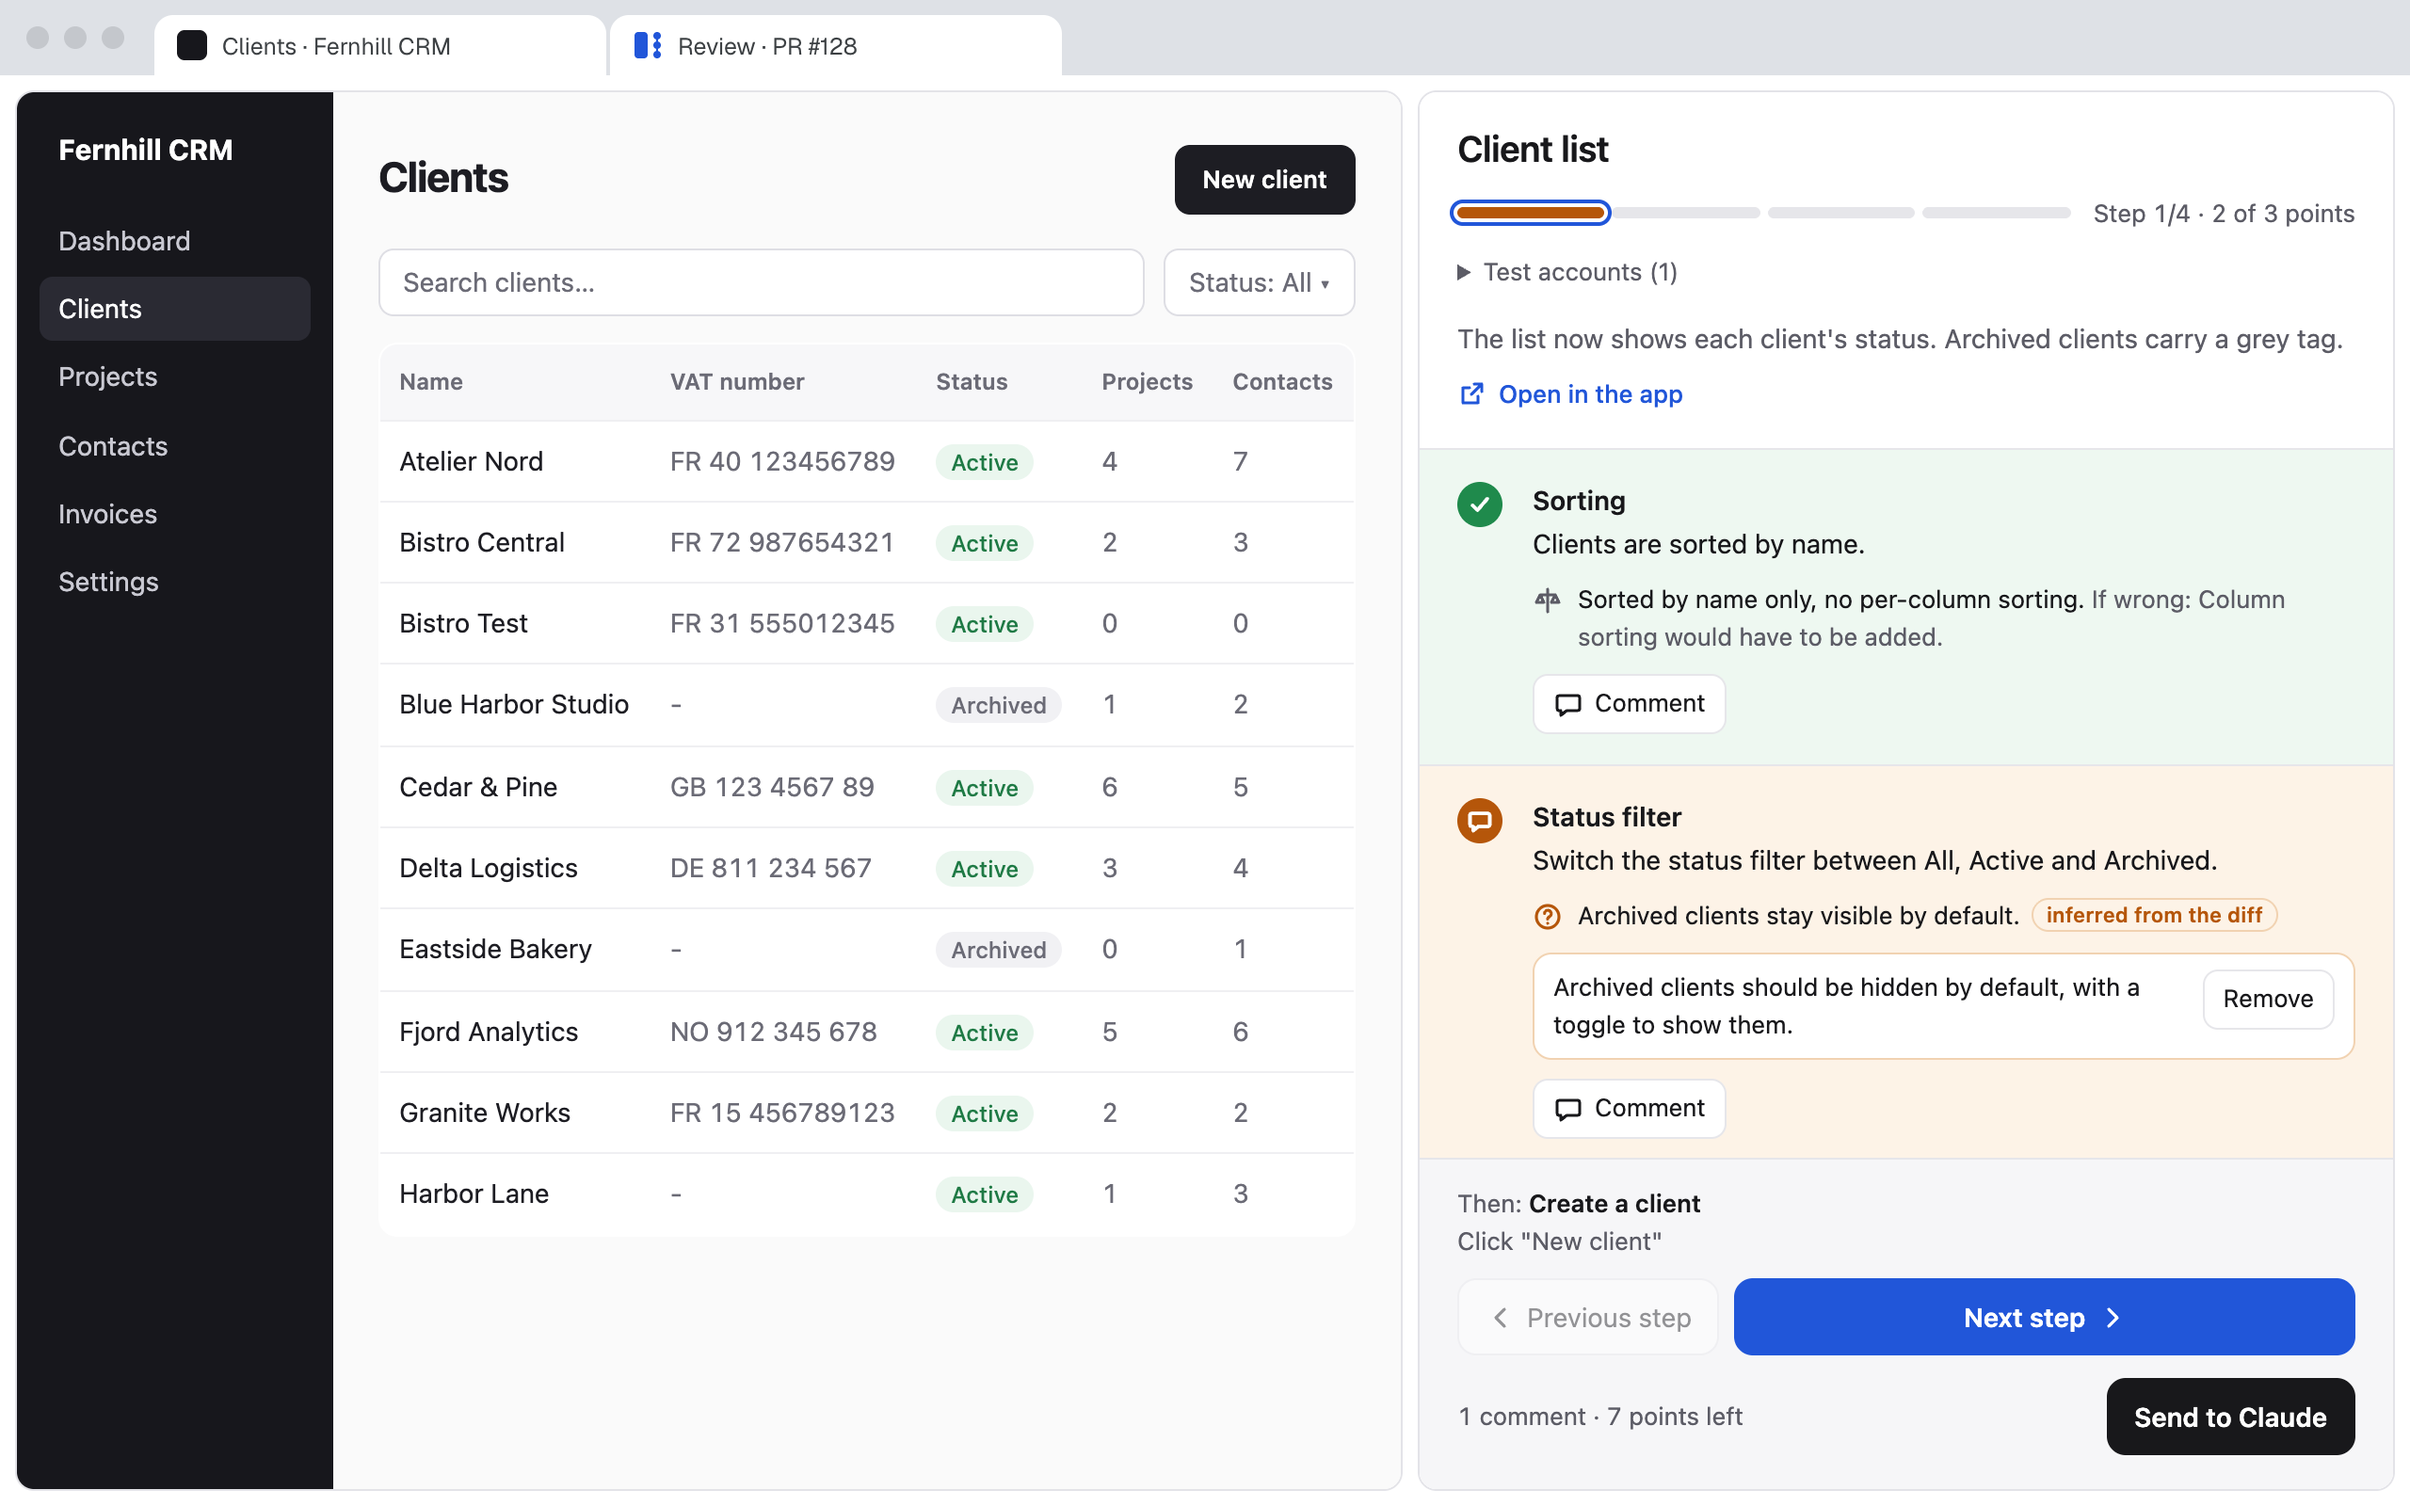
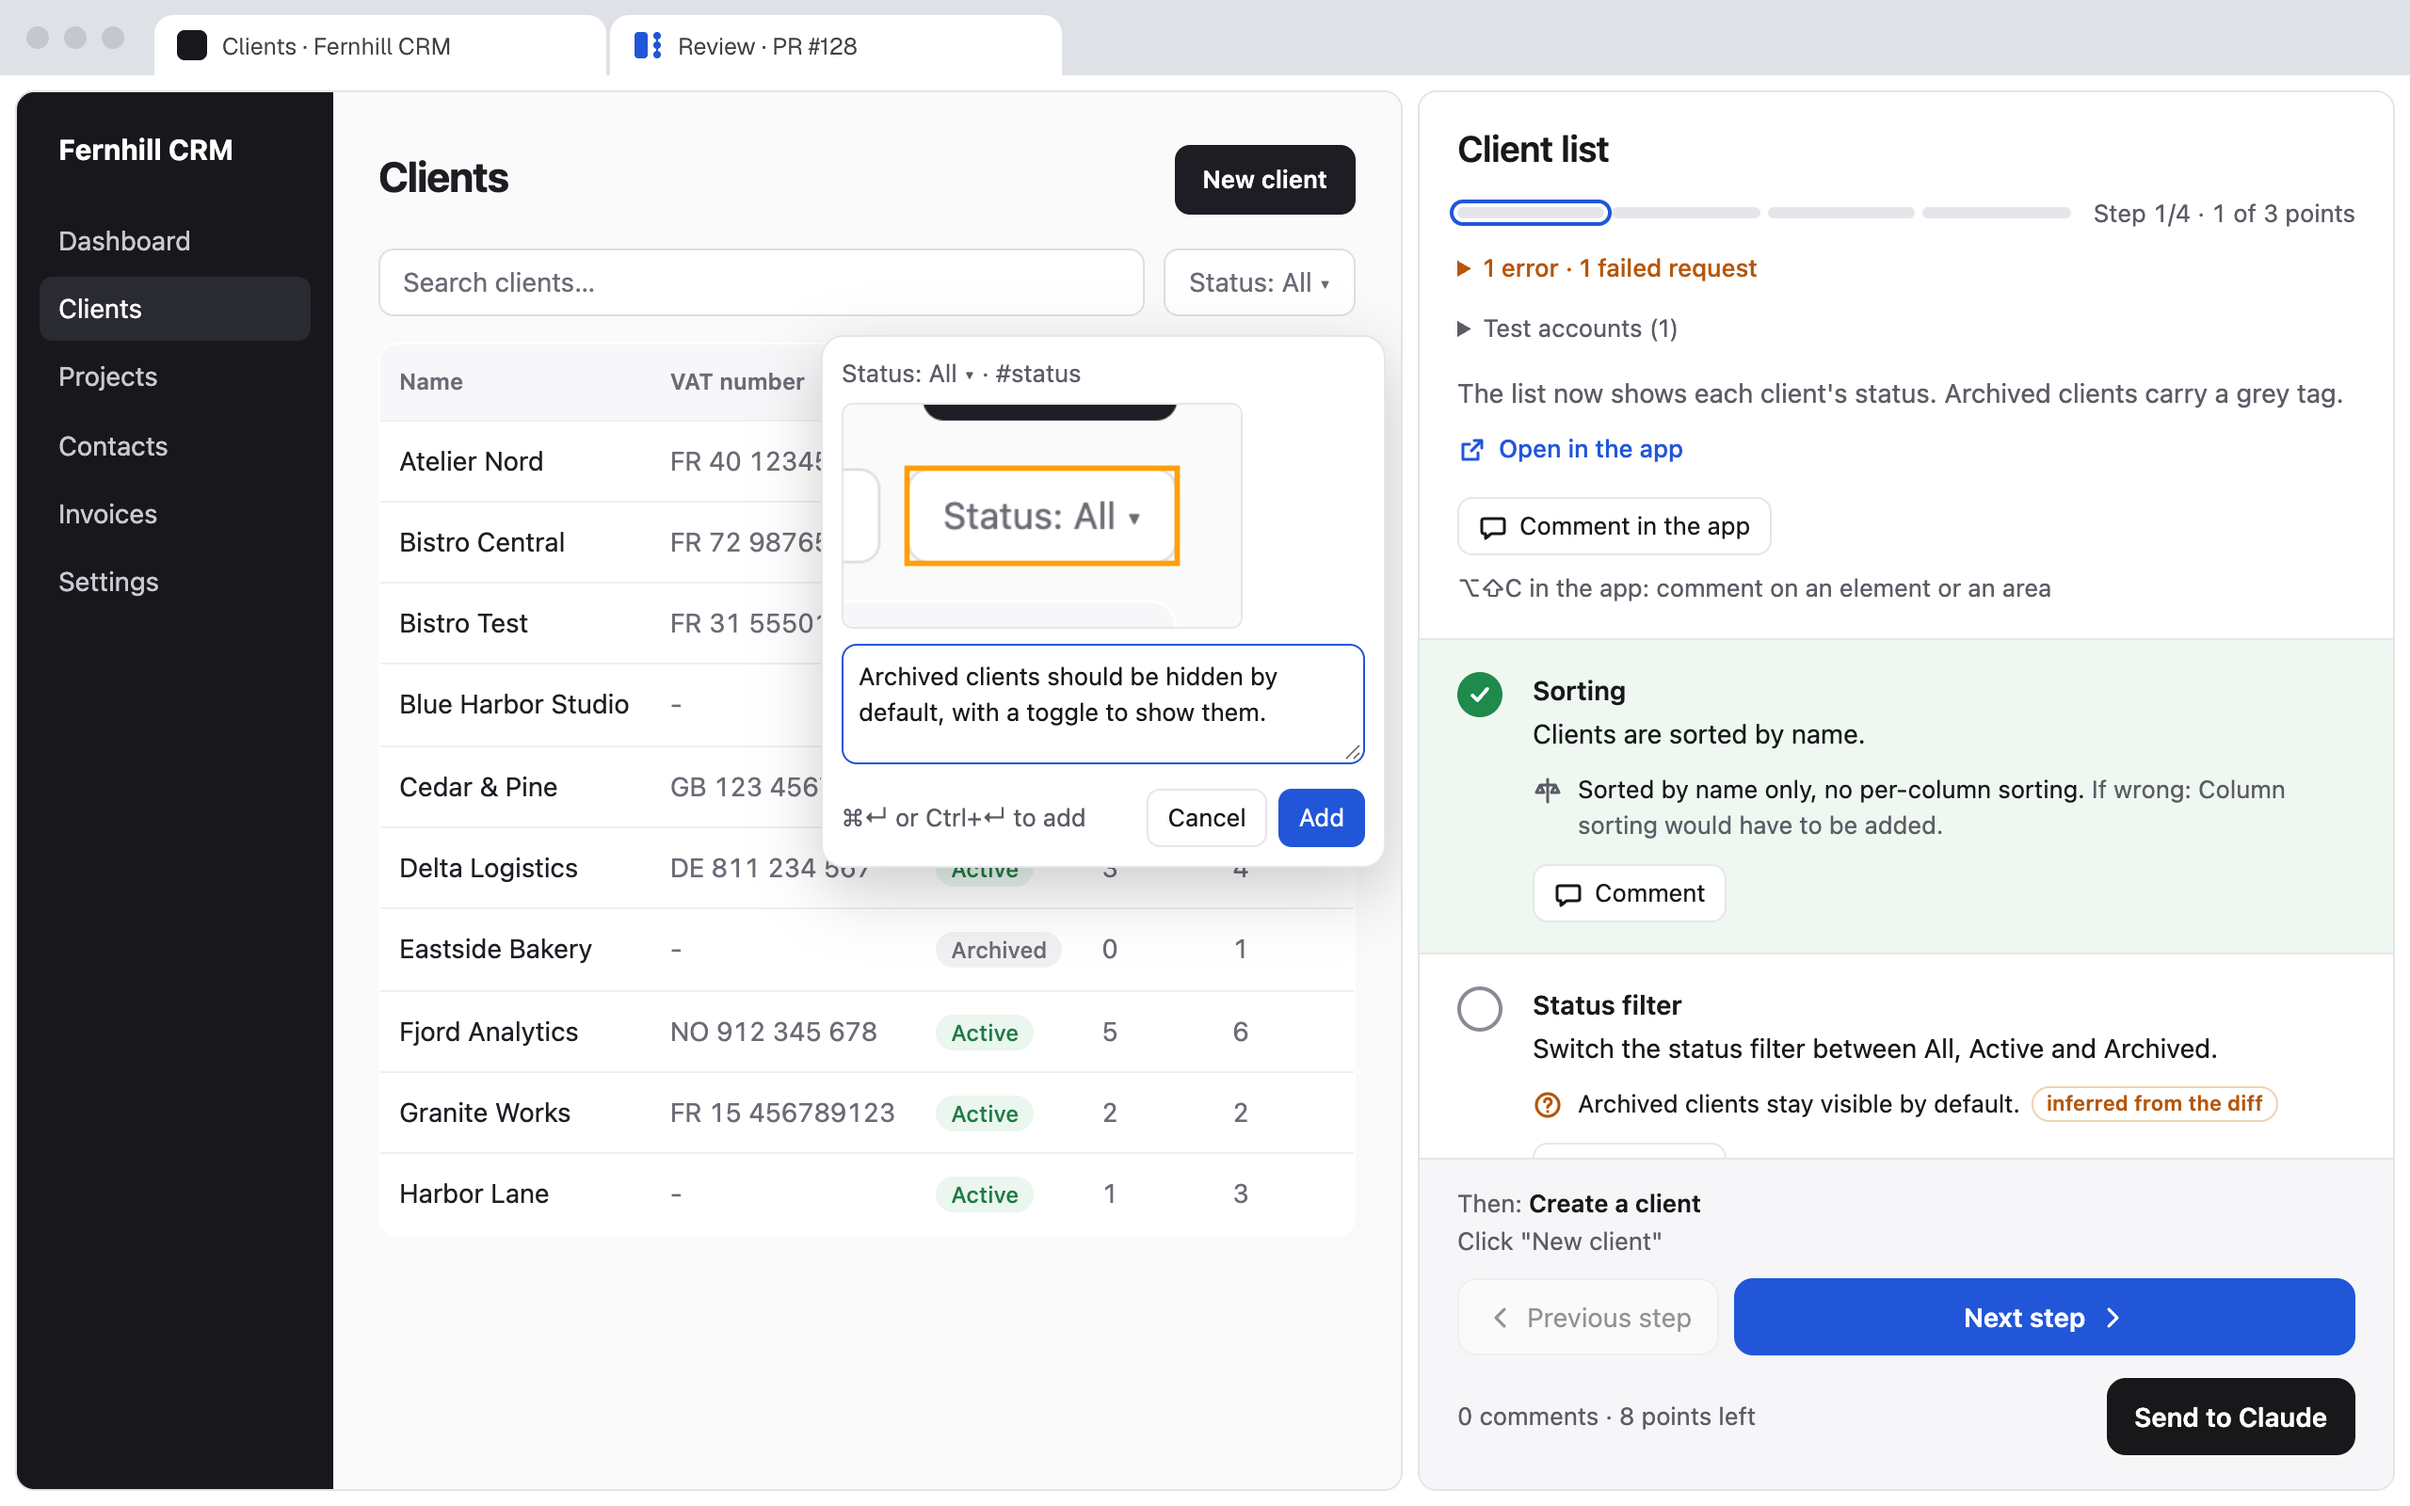
Marketing images for 0.5: comment on the app, console errors
The hero now shows the extension's comment bubble open on the demo
app's status filter, with its capture, next to a review page that
counts the step's console errors and offers "Comment in the app".
Store screenshot 3 shows the comment's pin on the app and the comment
in the review page, with its capture, above "Send to Claude". Store
screenshot 5 said the extension collects no data; it now says the
extension reads the app only during a review and sends what it reads
to the local relay.

The compositions load the extension's own overlay.js on the demo app
and cut the capture with its cropBox, so the bubble, the pin and the
capture use the product's code. points.png and the Store tile come
out byte for byte unchanged.

diff --git a/marketing/compose/window.html b/marketing/compose/window.html
@@ -21,18 +21,38 @@
     <div class="tab"><b></b>Clients · Fernhill CRM</div><div class="tab"><img src="/demo/favicon.svg" alt="">Review · PR #128</div></div>
   <div class="split"><iframe id="app" title="App"></iframe><iframe id="review" title="Review"></iframe></div>
 <script type="module">
-  // ?round=1|2 picks the round; ?state=fresh|commented sets what the reviewer has done.
-  import { seedReview, settled } from './seed.mjs'
+  // ?round=1|2 picks the round; ?state= sets what the reviewer has done (seed.mjs):
+  // typing shows the extension's bubble on the status filter, app its pin and the comment in the review.
+  import { seedReview, settled, appReady, overlay, COMMENT, TARGET, CAPTURE } from './seed.mjs'
   const q = new URLSearchParams(location.search)
   const round = Number(q.get('round') ?? 1)
   const app = document.getElementById('app')
   const review = document.getElementById('review')
+  const state = q.get('state') ?? 'app'
+  const appLoaded = new Promise(resolve => app.addEventListener('load', resolve, { once: true }))
   // Round 2 ships the fix: the list starts on Active.
   app.src = round === 2 ? '/demo/app/clients/?status=active' : '/demo/app/clients/'
   window.ready = (async () => {
-    await seedReview(round, q.get('state') ?? 'commented')
+    await seedReview(round, state)
     review.src = `/demo/?round=${round}`
     const doc = await settled(review)
+    appReady(review)
+    await appLoaded
+    const rw = await overlay(app)
+    const status = app.contentDocument.getElementById('status')
+    // The bubble as the context menu's "Comment on this element" opens it: without the comment mode's bar,
+    // which the site's terminal card would cover.
+    if (state === 'typing') {
+      rw.openBubble({ near: status.getBoundingClientRect(), target: `${TARGET.text} · ${TARGET.selector}`, capture: CAPTURE, onSubmit () {} })
+      const area = app.contentDocument.querySelector('review-walkthru-overlay').shadowRoot.querySelector('textarea')
+      area.value = COMMENT
+      area.setSelectionRange(COMMENT.length, COMMENT.length)
+    }
+    if (state === 'app') {
+      rw.setPins([{ n: 1, el: status }])
+      // Down to the comment, from the point whose doubt it answers.
+      review.contentWindow.scrollTo(0, doc.querySelector('[data-point="filter"]').offsetTop)
+    }
     // Round 2: show which steps were skipped, and why.
     for (const details of doc.querySelectorAll('details')) if (details.querySelector('summary')?.textContent.includes('Skipped')) details.open = true
   })()

diff --git a/marketing/compose/store-3.html b/marketing/compose/store-3.html
@@ -3,23 +3,34 @@
 <head>
 <meta charset="utf-8">
 <link rel="stylesheet" href="compose.css">
-<style>.crop { width: 600px; height: 560px; overflow: hidden; margin-left: auto; } .crop img { width: 1460px; margin-left: -858px; margin-top: -46px; } .term { position: absolute; left: 0; top: 70px; width: 510px; font-size: 14px; } .note { position: absolute; left: 0; bottom: 24px; font-size: 13px; color: var(--muted); }</style>
+<style>
+  .shot { flex-direction: row; gap: 40px; padding: 40px 0 0 64px; }
+  .side { flex: 1; display: flex; flex-direction: column; justify-content: center; gap: 32px; padding-bottom: 40px; }
+  .term { font-size: 14px; }
+  .note { font-size: 13px; color: var(--muted); margin-top: -20px; }
+  /* From the pinned filter in the app to the review's send button: x 590 to 1280, y 48 to 800 of the capture. */
+  .crop { width: 690px; height: 760px; overflow: hidden; border-right: 0; border-radius: 14px 0 0 0; }
+  .crop img { width: 1280px; margin: -48px 0 0 -590px; }
+</style>
 </head>
 <body>
 <div class="shot">
-  <h1>One click sends the whole review to Claude Code.</h1>
-  <div class="stage">
-    <div class="crop window"><img src="/img/hero.png" alt=""></div>
+  <div class="side">
+    <h1>One click sends the whole review to Claude Code.</h1>
     <div class="term">
       <div><span class="p">&gt;</span> /review-walkthru 128</div>
       <div><span class="ok">✓</span> Review ready: 4 steps, 9 points</div>
-      <div><span class="am">●</span> Review received: 1 comment, 1 point validated</div>
-      <div class="dim">  Status filter: "Archived clients should be</div>
-      <div class="dim">  hidden by default, with a toggle to show them."</div>
-      <div><span class="p">●</span> Fixing: the list now starts on Active.</div>
+      <div><span class="am">●</span> Review received: 1 comment, 1 point validated.</div>
+      <div class="dim">  On the app (#status), with a capture:</div>
+      <div class="dim">  "Archived clients should be hidden by default,</div>
+      <div class="dim">  with a toggle to show them."</div>
+      <div class="dim">  Console: 1 error, 1 failed request.</div>
+      <div><span class="p">●</span> Fixing: the list now starts on Active,</div>
+      <div class="dim">  and /clients/stats no longer returns 500.</div>
       <div class="dim">  Next round: 2 of 4 steps to recheck.</div>
     </div>
     <p class="note">Claude Code output, illustrative.</p>
   </div>
+  <div class="crop window"><img src="/img/app-comment.png" alt=""></div>
 </div>
 </body></html>

diff --git a/marketing/compose/capture.html b/marketing/compose/capture.html
@@ -1,0 +1,29 @@
+<!doctype html>
+<html lang="en">
+<head>
+<meta charset="utf-8">
+<link rel="stylesheet" href="compose.css">
+<style>
+  iframe { border: 0; width: 100%; height: 100%; display: block; }
+  .outline { position: fixed; border: 2px solid #ff9f0a; }
+</style>
+</head>
+<body>
+  <iframe id="app" title="App" src="/demo/app/clients/"></iframe>
+  <div class="outline"></div>
+<script type="module">
+  // The capture the extension attaches to a comment on the status filter: the app half cut around
+  // the element with the extension's own crop (extension/capture.js), the element outlined.
+  // The viewport is the size of the app half in window.html; window.clip is the part to keep.
+  import { cropBox } from '/_extension/capture.js'
+  const app = document.getElementById('app')
+  window.ready = new Promise(resolve => app.addEventListener('load', resolve, { once: true })).then(() => {
+    const r = app.contentDocument.getElementById('status').getBoundingClientRect()
+    // The extension strokes the outline on the element's edge: half outside, half inside.
+    Object.assign(document.querySelector('.outline').style, { left: `${r.x - 1}px`, top: `${r.y - 1}px`, width: `${r.width + 2}px`, height: `${r.height + 2}px` })
+    const box = cropBox(r, { width: innerWidth, height: innerHeight }, 1)
+    window.clip = { x: box.sx, y: box.sy, width: box.sw, height: box.sh }
+  })
+</script>
+</body>
+</html>

diff --git a/marketing/compose/review.html b/marketing/compose/review.html
@@ -11,7 +11,7 @@
 <body>
   <iframe id="review" title="Review"></iframe>
 <script type="module">
-  // The review page alone. ?round=1|2, ?state=fresh|commented, ?frame=points starts the frame at the first point.
+  // The review page alone. ?round=1|2, ?state= as in seed.mjs, ?frame=points starts the frame at the first point.
   import { seedReview, settled } from './seed.mjs'
   const q = new URLSearchParams(location.search)
   const round = Number(q.get('round') ?? 1)
@@ -19,7 +19,7 @@
   // A taller page viewport pushes the page's sticky footer out of the frame.
   if (q.get('frame') === 'points') review.style.height = `${innerHeight + 1200}px`
   window.ready = (async () => {
-    await seedReview(round, q.get('state') ?? 'commented')
+    await seedReview(round, q.get('state') ?? 'point')
     review.src = `/demo/?round=${round}`
     const doc = await settled(review)
     if (q.get('frame') === 'points') review.style.marginTop = `-${doc.querySelector('.pt').getBoundingClientRect().top - 12}px`

diff --git a/site/index.html b/site/index.html
@@ -50,7 +50,7 @@
         </div>
       </div>
       <figure class="hero-visual">
-        <div class="window"><img src="img/hero.png" width="2560" height="1600" alt="Chrome split view: a client list app on the left; on the right the Review Walkthru page, with one point validated and one point commented."></div>
+        <div class="window"><img src="img/hero.png" width="2560" height="1600" alt="Chrome split view: a client list app on the left, with a comment bubble open on its status filter and a capture of the filter; on the right, the Review Walkthru page with one point validated and the step's console errors."></div>
         <div class="term hero-term" role="img" aria-label="Claude Code output, illustrative">
           <p><span class="t-p">&gt;</span> /review-walkthru 128</p>
           <p class="t-dim">PR #128: 9 files, app on localhost:8000</p>

diff --git a/marketing/compose/store-5.html b/marketing/compose/store-5.html
@@ -21,7 +21,7 @@
     </div>
     <ul>
       <li><span>✓</span><div>The review page runs on a local relay, on <b>127.0.0.1</b>.</div></li>
-      <li><span>✓</span><div>The extension <b>collects no data</b> and only arranges the split view.</div></li>
+      <li><span>✓</span><div>The extension reads the app only during a review and <b>sends what it reads to that relay</b>, never to a server.</div></li>
       <li><span>✓</span><div>No PR comment, no description edit. <b>A push only after your yes.</b></div></li>
     </ul>
   </div>

diff --git a/marketing/README.md b/marketing/README.md
@@ -1,3 +1,3 @@
 # Marketing images
 
-`npm run assets` builds the site, serves it locally and captures every image with headless Chrome (Node 22+, Google Chrome installed): `site/img/*.png` and `site/og.png` for the website and README, `dist/store/*.png` for the Chrome Web Store and the GitHub social preview. Each composition in `compose/` shows the real review page, running in the site's demo; `npm run assets <name>` captures only the outputs whose path contains `<name>`.
+`npm run assets` builds the site, serves it locally and captures every image with headless Chrome (Node 22+, Google Chrome installed): `site/img/*.png` and `site/og.png` for the website and README, `dist/store/*.png` for the Chrome Web Store and the GitHub social preview. Each composition in `compose/` shows the real review page, running in the site's demo, and the extension's own overlay (comment bubble, pins) and crop on the demo app; `npm run assets <name>` captures only the outputs whose path contains `<name>`.

diff --git a/README.md b/README.md
@@ -21,7 +21,7 @@ A Claude Code plugin that turns a pull request into a real acceptance test: ever
 
 </div>
 
-![Chrome split view: a client list app on the left, the Review Walkthru page on the right with one point validated and one point commented](site/img/hero.png)
+![Chrome split view: a client list app on the left with a comment bubble open on its status filter, the Review Walkthru page on the right with one point validated and the step's console errors](site/img/hero.png)
 
 ## Why
 
